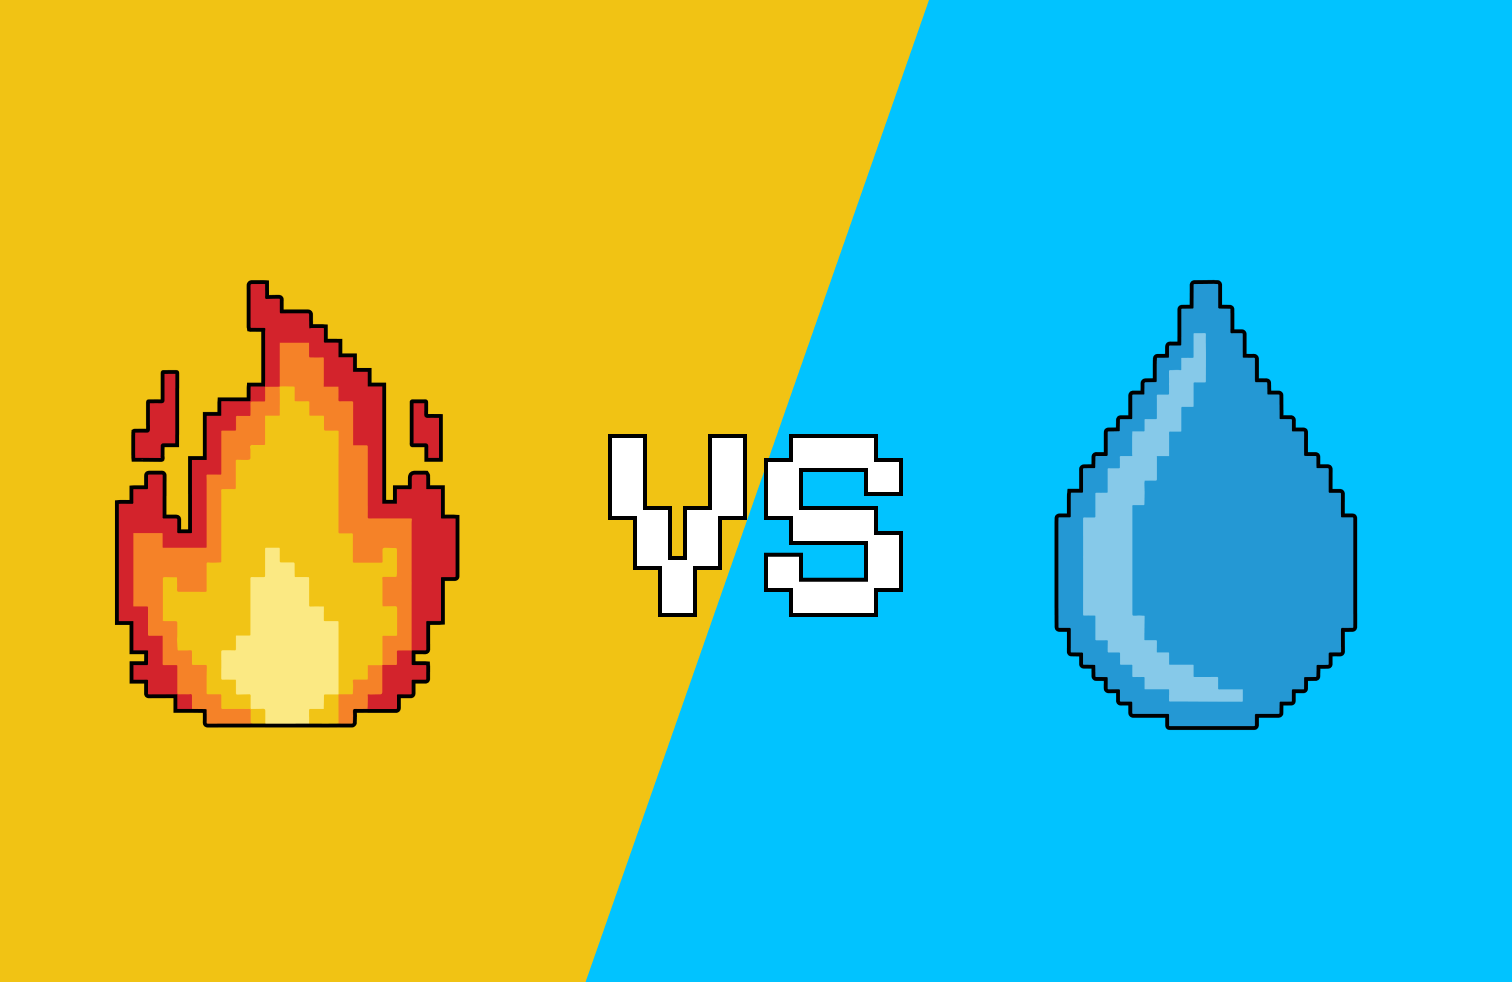
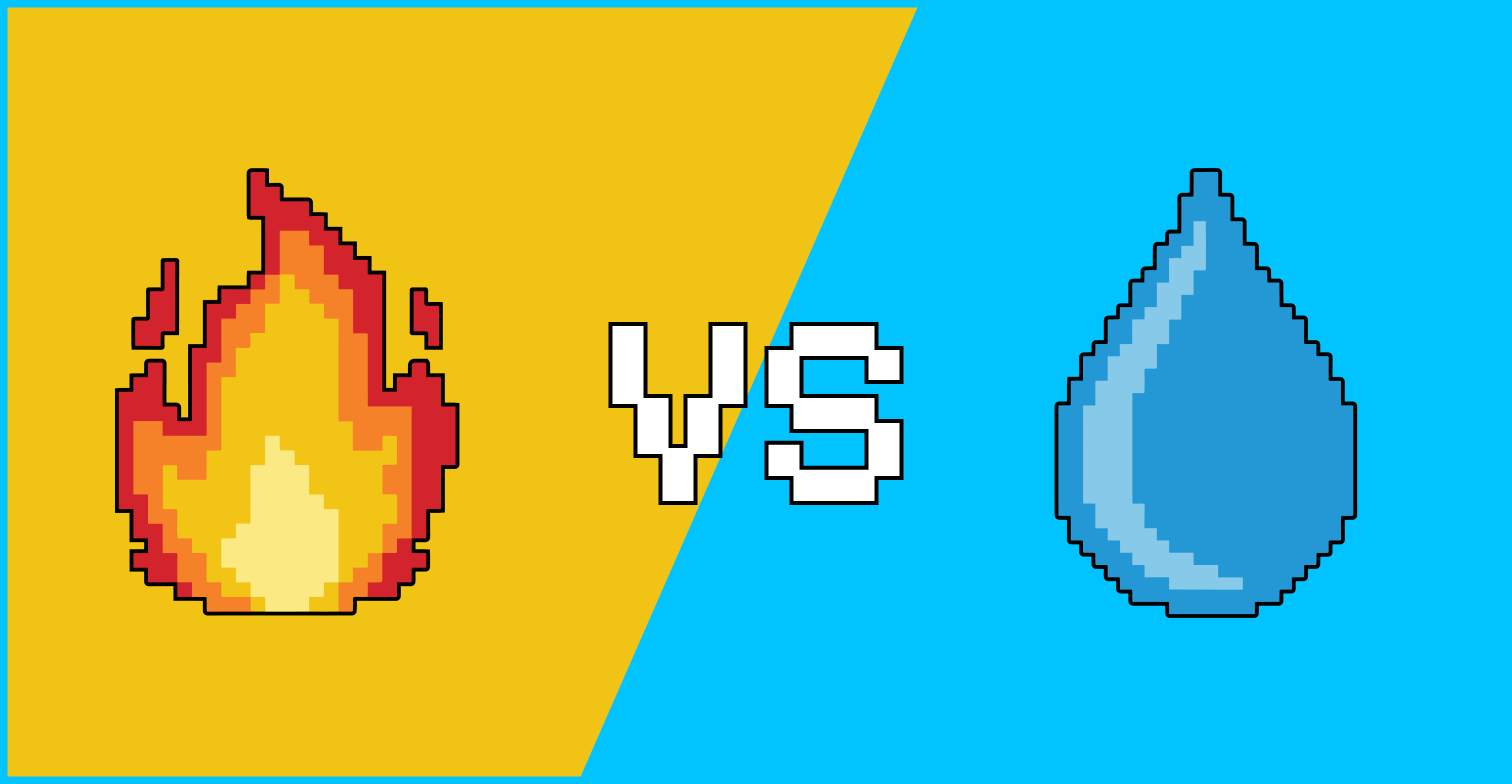
L/B update

diff --git a/Studio/Laundry+Boundary/style-compare.css b/Studio/Laundry+Boundary/style-compare.css
@@ -1,0 +1,189 @@
+@font-face {
+   font-family: connection;
+   src: url("ConnectionBold.otf") format("opentype");
+}    
+
+   html{
+      background-color: #01C3FF;
+   }
+    
+
+  .container{
+   display: grid;
+   grid-template-columns: repeat(1,1fr);
+   grid-template-rows: repeat(4,1fr);
+} 
+
+.container1{
+   grid-column: 1/-1;
+   grid-row: 1/-1;
+   z-index: 1;
+} 
+
+.container2{
+   grid-column: 1/-1;
+   grid-row: 1/-1;
+   z-index: 2;
+   animation: 1.7s dley;
+ } 
+
+ .container2, img{
+   display: flex;
+   justify-content: center;
+   align-items: center;
+   min-width: 100%;
+} 
+
+@keyframes dley{  
+  
+   0%,49% {
+     opacity: 0%;
+   }
+   50%,100% {
+      opacity: 100%;
+   }
+ } 
+
+ .container2-5{
+   grid-column: 1/-1;
+   grid-row: 1/-1;
+   z-index: 4;
+   animation: 2s ovly forwards;
+ } 
+
+ .container2-5, img{
+   display: flex;
+   justify-content: center;
+   align-items: center;
+   min-width: 100%;
+} 
+
+@keyframes ovly{  
+  
+   0%,69% {
+     opacity: 100%;
+   }
+   70%,100% {
+      opacity: 0%;
+   }
+ }  
+
+
+.container3{
+   grid-column: 1/-1;
+   grid-row: 1/-1;
+   z-index: 3;
+   animation: 2.5s shft;
+   animation-iteration-count: 1;
+   animation-delay: 1.7s;
+ } 
+
+ .container3, img{
+   display: flex;
+   justify-content: center;
+   align-items: center;
+   min-width: 100%;
+} 
+
+ @keyframes shft{  
+  
+   0%,9% {
+    opacity: 0%;
+   }
+   10%,19% {
+   opacity: 100%;
+   }
+   20%,29% {
+      opacity: 0%;
+   }
+   30%,39% {
+     opacity: 100%;
+   }
+   40%,49% {
+   opacity: 0%;
+   } 
+   50%,59% {
+      opacity: 100%;
+   }
+   60%,69% {
+   opacity: 0%;
+   } 
+   70%,79% {
+      opacity: 100%;
+   }
+   80%,89% {
+    opacity: 0%;
+    } 
+   90%,100% {
+       opacity: 100%;
+    }
+ }
+
+   .container4{
+    grid-column: 1/-1;
+    grid-row: 1/-1;
+    z-index: 5;
+    animation: 5.5s appr ;
+ } 
+
+ .container4, img{
+   display: flex;
+   justify-content: center;
+   align-items: center;
+   min-width: 100%;
+} 
+
+@keyframes appr{  
+    
+   0% {
+     opacity: 0%;
+  }
+   90% {
+      opacity: 0%;
+   }
+   100% {
+      opacity: 100%;
+   }
+}
+
+
+    .start-text{
+      grid-column: 1/1;
+      grid-row: 4/4;
+      width:100%;
+      position: bottom;
+      bottom: 4em;
+      font-family: connection;
+      text-align: center;
+      z-index: 6;
+      animation: 6s appr;
+    }
+
+    .start-text p{
+      color: #ffffff;
+      font-size: 4em;
+      word-spacing: .5em;
+      animation: 1.8s blnk infinite step-end;
+      /* animation-delay: 4s; */
+   }
+
+    .start-text :link{
+      text-decoration: none;
+   }
+   
+    .start-text :visited {
+      text-decoration: none;
+    }
+   
+    .start-text :hover{
+      animation-play-state: paused;
+   }
+
+    @keyframes blnk{  
+      0% {
+         opacity: 0%;
+      }
+      50% {
+         opacity: 100%;
+      }
+    }

diff --git a/Studio/Laundry+Boundary/style.css b/Studio/Laundry+Boundary/style.css
@@ -11,7 +11,7 @@
       display: grid;
       grid-template-columns: repeat(5,1fr);
       /* grid-template-rows: 1fr 1fr max-content 1fr max-content; */
-      grid-template-rows: 1fr 1fr 2em 1fr 1fr;
+      grid-template-rows: 1fr 1fr 7em 1fr 1fr;
     }
     
     
@@ -22,7 +22,7 @@
     }
 
     .elements img{
-      max-height: 100%;
+      max-height: 120%;
       width:100%;
     }
 
@@ -36,7 +36,7 @@
 
     .start-text p{
       color: #ffffff;
-      font-size: 3em;
+      font-size: 4em;
       word-spacing: .5em;
       animation: 1.8s blnk infinite step-end;
    }
@@ -75,6 +75,8 @@
       grid-row: 2/2;
       background: url("images/fire.png") no-repeat;
       background-size: cover;
+      margin: 1em;
+      padding: 2em;
     }
 
     .element-f:hover{
@@ -94,6 +96,8 @@
       grid-row: 2/2;
       background: url("images/water.png") no-repeat;
       background-size: cover;
+      margin: 1em;
+      padding: 2em;
     }
 
     .element-w:hover{
@@ -113,6 +117,8 @@
       grid-row: 2/2;
       background: url("images/earth.png") no-repeat;
       background-size: cover;
+      margin: 1em;
+      padding: 2em;
     }
 
     .element-e:hover{
@@ -132,6 +138,8 @@
       grid-row: 2/2;
       background: url("images/air.png") no-repeat;
       background-size: cover;
+      margin: 1em;
+      padding: 2em;
     }
 
     .element-a:hover{
@@ -157,7 +165,7 @@
 
    .element-text p{
       color: #ffffff;
-      font-size: 3em;
+      font-size: 4em;
       word-spacing: .5em;
    }
     .element-text :link{
@@ -175,26 +183,4 @@
       width:100%;
       position: absolute;
       bottom: 0px;
-    }
-
-
-
-
-    .container3{
-      display: grid;
-      grid-template-columns: repeat(1,1fr);
-      grid-template-rows: repeat(1,1fr);
-   }
-
-    .vs {
-      grid-column: 1/-1;
-      grid-row: 1/-1;
-      display: flex;
-      justify-content: center;
-      /* background: url("images/fxw.png") no-repeat;
-      background-size: cover; */
-    }
-
-    .vs img{
-      object-fit: fill;
     }

diff --git a/Studio/Laundry+Boundary/fxa.html b/Studio/Laundry+Boundary/fxa.html
@@ -4,7 +4,7 @@
     <meta charset="UTF-8">
     <meta http-equiv="X-UA-Compatible" content="IE=edge">
     <meta name="viewport" content="width=device-width, initial-scale=1.0">
-    <title>FXW</title>
+    <title>FXA</title>
     <link rel="stylesheet" href="style-compare.css">
     <script src="jquery.js"></script>
 
@@ -18,23 +18,23 @@
            </div>
         
           <div class= "container1">
-            <img src="images/fxw.png">
+            <img src="images/fxa.png">
           </div> 
 
           <div class= "container2">
-            <img src="images/fxwl.png">
+            <img src="images/fxar.png">
           </div> 
 
           <div class= "container2-5">
-            <img src="images/fxw.png">
+            <img src="images/fxa.png">
           </div> 
           
           <div class= "container3">
-            <img src="images/fxwr.png">
+            <img src="images/fxal.png">
           </div> 
 
           <div class= "container4">
-            <img src="images/flose.png">
+            <img src="images/fwin.png">
          </div>   
            
     </div>  

diff --git a/Studio/Laundry+Boundary/fxe.html b/Studio/Laundry+Boundary/fxe.html
@@ -4,7 +4,7 @@
     <meta charset="UTF-8">
     <meta http-equiv="X-UA-Compatible" content="IE=edge">
     <meta name="viewport" content="width=device-width, initial-scale=1.0">
-    <title>FXW</title>
+    <title>FXE</title>
     <link rel="stylesheet" href="style-compare.css">
     <script src="jquery.js"></script>
 
@@ -18,23 +18,23 @@
            </div>
         
           <div class= "container1">
-            <img src="images/fxw.png">
+            <img src="images/fxe.png">
           </div> 
 
           <div class= "container2">
-            <img src="images/fxwl.png">
+            <img src="images/fxer.png">
           </div> 
 
           <div class= "container2-5">
-            <img src="images/fxw.png">
+            <img src="images/fxe.png">
           </div> 
           
           <div class= "container3">
-            <img src="images/fxwr.png">
+            <img src="images/fxel.png">
           </div> 
 
           <div class= "container4">
-            <img src="images/flose.png">
+            <img src="images/fwin.png">
          </div>   
            
     </div>  
